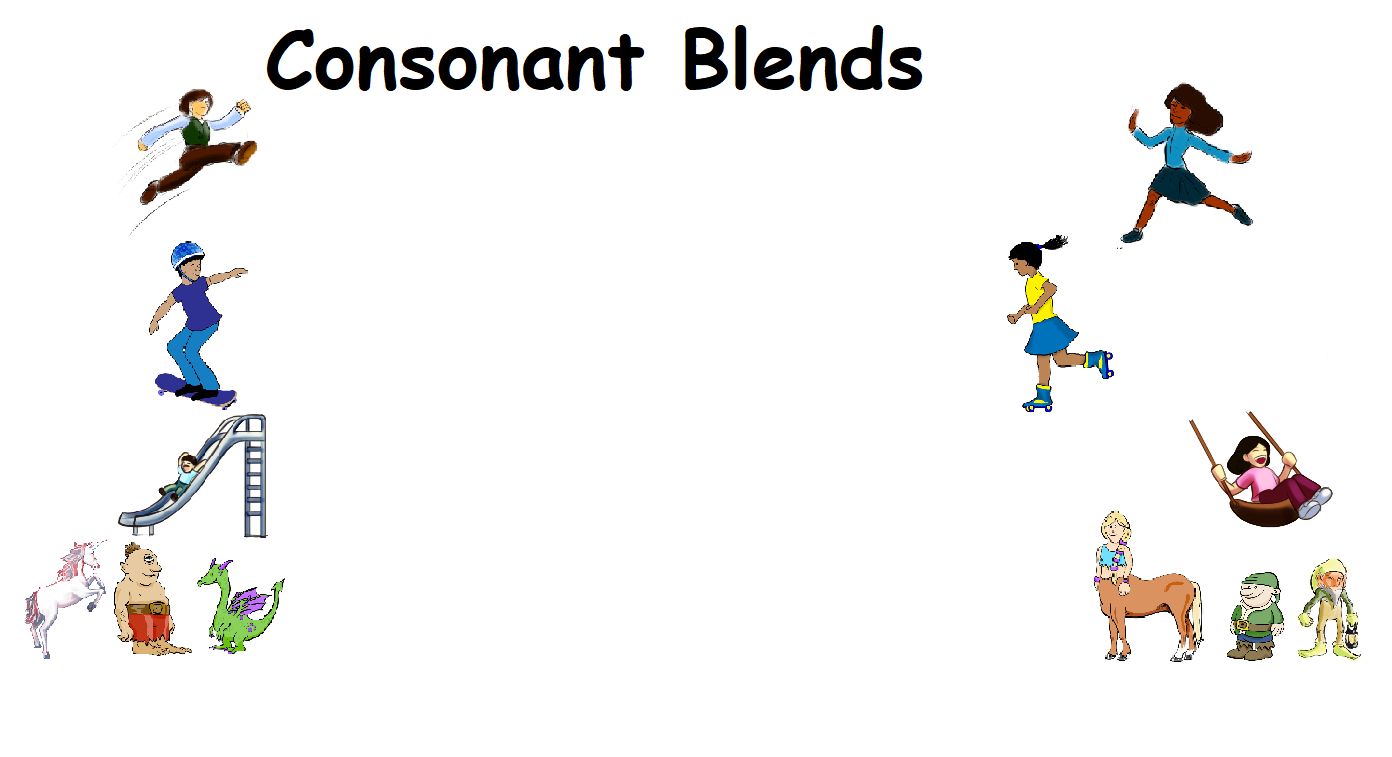
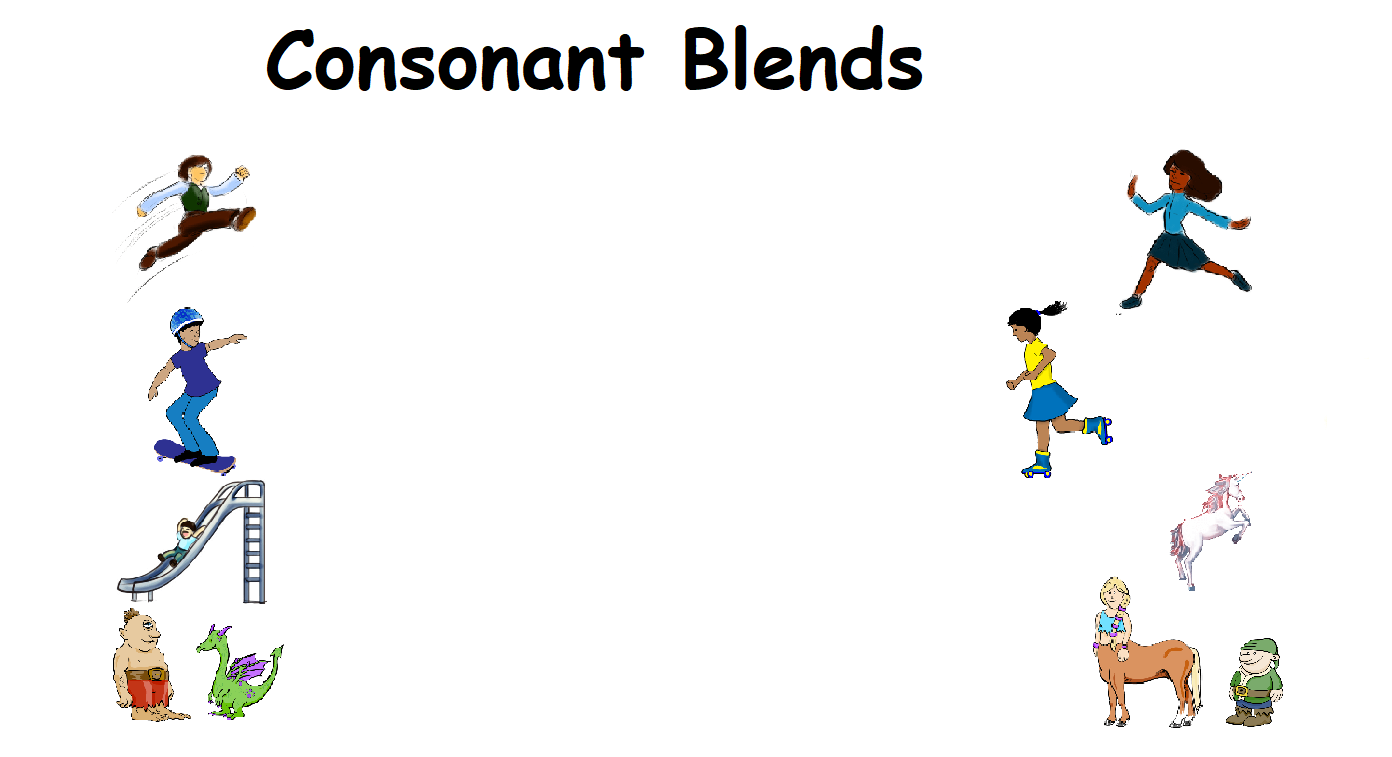
styling changes for 2nd grade blend and digraphs pages

diff --git a/src/app/pages/second-categories/second-blends-details/second-blends-details.component.css b/src/app/pages/second-categories/second-blends-details/second-blends-details.component.css
@@ -8,36 +8,29 @@
   #background {
       background-color: #FFFFFF !important;
       background: url('../../../../assets/img/backgrounds/second_blend_details.png') no-repeat scroll transparent;
-      background-position: center top;
-      background-size: 160vh;
+      background-position: 18vh;
+      background-size: 180vh;
   }
   
   /* Second Categories */
   #begin {
       background: url('../../../../assets/img/buttons/second_blend_begin.png') no-repeat scroll transparent;
-      background-size: 35vh;
+      background-size: 80vh;
+      margin-top: 8vh;
       cursor: pointer;
-      width: 35vh;
+      width: 79vh;
   }
   #end {
     background: url('../../../../assets/img/buttons/second_blend_end.png') no-repeat scroll transparent;
-    background-size: 32vh;
-    width: 31vh;
+    background-size: 70vh;
+    width: 68vh;
     cursor: pointer;
-  }
-  #slr {
-    background: url('../../../../assets/img/buttons/second_blend_slr.png') no-repeat scroll transparent;
-    background-size: 61vh;
-    margin-top: 4.5vh;
-    cursor: pointer;
-    width: 61vh;
   }
   #three-letter {
     background: url('../../../../assets/img/buttons/second_blend_3.png') no-repeat scroll transparent;
-    background-size: 46vh;
+    background-size: 79vh;
     cursor: pointer;
-    margin-top: 3.3vh;
-    width: 45vh;
+    width: 77vh;
   }
 
   .column {
@@ -45,7 +38,7 @@
   }
 
   .category_button {
-      margin: 4vh 0vh 0vh 33vh;
+      margin: 9vh 0vh 0vh 16vh;
       height: 12.5vh;
       border: none;
       display: inherit;

diff --git a/src/app/pages/second-categories/second-digraphs-details/second-digraphs-details.component.css b/src/app/pages/second-categories/second-digraphs-details/second-digraphs-details.component.css
@@ -8,21 +8,22 @@
   #background {
       background-color: #FFFFFF !important;
       background: url('../../../../assets/img/backgrounds/second_digraph_details.png') no-repeat scroll transparent;
-      background-position: center top;
-      background-size: 160vh;
+      background-position: 17vh;
+      background-size: 170vh;
   }
   
   /* Second Categories */
   #begin {
       background: url('../../../../assets/img/buttons/second_digraph_begin.png') no-repeat scroll transparent;
-      background-size: 35vh;
+      background-size: 90vh;
+      margin-top: 20vh;
       cursor: pointer;
-      width: 35vh;
+      width: 87vh;
   }
   #end {
     background: url('../../../../assets/img/buttons/second_digraph_end.png') no-repeat scroll transparent;
-    background-size: 32vh;
-    width: 31vh;
+    background-size: 77vh;
+    width: 75vh;
     cursor: pointer;
   }
 
@@ -31,8 +32,8 @@
   }
 
   .category_button {
-      margin: 4vh 0vh 0vh 33vh;
-      height: 12.5vh;
+      margin: 17vh 0vh 0vh 19vh;
+      height: 17vh;
       border: none;
       display: inherit;
   }

diff --git a/src/app/pages/second-categories/second-blends-details/second-blends-details.component.html b/src/app/pages/second-categories/second-blends-details/second-blends-details.component.html
@@ -3,7 +3,6 @@
         <div class='column'>
                 <button mat-icon-button class='category_button' id='begin' (mouseenter)='playAudio($event)' [routerLink]="['/list-select']" [queryParams]="{'grade' : '2nd', 'list': 'CB-begin'}"></button>
                 <button mat-icon-button class='category_button' id='end' (mouseenter)='playAudio($event)' [routerLink]='["/list-select"]' [queryParams]="{'grade' : '2nd', 'list': 'CB-end'}"></button>
-                <button mat-icon-button class='category_button' id='slr' (mouseenter)='playAudio($event)' [routerLink]='["/list-select"]' [queryParams]="{'grade' : '2nd', 'list': 'CB-begin'}"></button>
                 <button mat-icon-button class='category_button' id='three-letter' (mouseenter)='playAudio($event)' [routerLink]='["/list-select"]' [queryParams]="{'grade' : '2nd', 'list': 'CB-3'}"></button>
         </div>
     </div>

diff --git a/src/app/pages/second-categories/second-consonants-details/second-consonants-details.component.html b/src/app/pages/second-categories/second-consonants-details/second-consonants-details.component.html
@@ -6,6 +6,8 @@
                 <button mat-icon-button class='category_button' id='uppercase_alphabetical' (mouseenter)='playAudio($event)' [routerLink]='["/list-select"]' [queryParams]="{'list' : 'alphabet', 'capital': 'true'}"></button>
                 <button mat-icon-button class='category_button' id='uppercase_bmras' (mouseenter)='playAudio($event)' [routerLink]='["/list-select"]' [queryParams]="{'list' : 'alphabet', 'capital': 'true', 'reordered': 'true'}"></button> -->
                 <p>TO DO</p>
+                <button routerLink='/second-blends-details'>Consonant Blends</button>
+                <button routerLink='/second-digraphs-details'>Consonant Digraph-Pairs</button>
         </div>
     </div>
 
